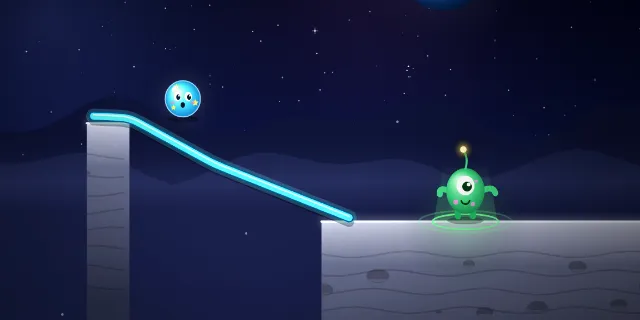
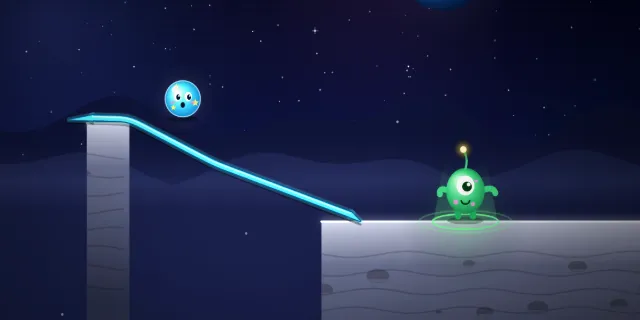
첫 화면 슥슥 우주 다리 카드 그림을 새 선(10px·끝 비탈)으로 다시 찍음

Changed region(s): [[0.0938, 0.3438, 0.5625, 0.7188]]

diff --git a/HANDOFF.md b/HANDOFF.md
@@ -7,7 +7,7 @@
 
 - **냠냠 뱀 네온 뱀 꾸미기 (2026-09-29, main에 합침, 소유자: "플레이어 뱀은 너무 단순", 카드 그림과 게임 뱀이 다르다는 확인 뒤 1안·길이 숫자 나안)**: 처음 받는 네온 뱀을 꾸밈. 관 위에 마디마다 광택 구슬(`render.js` `paintNeonBeads`, 색 12단계 미리 그림 `neonBeadSprite`), 머리는 광택 청록에 눈·웃는 입·노란 코, 길이 숫자는 머리 안에서 머리 바로 뒤 첫 마디로(`paintHead`의 `neck`, 포털로 떨어진 마디면 안 씀). 부딪히면 구슬 없이 붉은 관·붉은 머리. 다른 네 캐릭터와 라이벌은 그대로. 첫 화면 카드 그림은 예전에 상점 캐릭터 무지개 애벌레(800코인)로 찍어 처음 게임 뱀과 달랐다: `tools/thumbs.js` 뱀 장면을 네온 뱀으로 바꿔 `common/thumbs/snake-*.webp` 다시 찍음. 이 PC에는 Playwright가 없어 설치된 크롬을 CDP로 부리는 임시 대체 모듈로 돌렸고(저장소에 넣지 않음), 수정 전 코드로 다시 찍은 그림이 원래 그림과 눈으로 같은 것을 먼저 확인함. `snake-v22`. 화면 확인: 1280×800·893×533 판(오른쪽·위로 가는 얼굴), 보통 난이도 부딪힘, 시작 화면 캐릭터 카드, 390px 시작 화면, 콘솔 오류 0. 보조 에이전트 검토에서 정확성 문제 없음(뱀 시험 86·뱀 상점 22 다시 돌려 통과)
 - **저장소 이름 ppgame (2026-09-29, main에 합침, 소유자: "ppyong, 1안으로 진행해" 뒤 "이름을 ppgame 으로 바꾸자")**: 첫 게임 초안 때 붙은 n-gun을 게임 모음 이름 ppgame으로. 새 주소 `https://km-jang.github.io/ppgame/`. 코드는 모두 상대 경로라 고친 곳 없음, 문서(`CLAUDE.md`·`HANDOFF.md`·`README.md`·`android/README.md`)만 바꿈. 기록(localStorage)은 km-jang.github.io 단위라 그대로 이어지고, 홈 화면 설치와 오프라인 저장본만 새 주소에서 다시 한다. 옛 주소는 쓰지 않는다: 처음엔 넘겨 주기 전용 저장소(1안)로 정했으나 태블릿에 옛 주소로 설치한 적이 없어 소유자가 "n-gun 없이 가자"로 바꿈. 소유자가 만들어 둔 빈 공개 저장소 km-jang/n-gun은 비어 있고, 지울지는 소유자가 정한다. 옛 이름 저장소를 만든 때부터 GitHub의 옛 저장소 화면 넘겨 주기(github.com/km-jang/n-gun 에서 ppgame으로)는 끊겼다. 저장 키(`ngun.*` 등)·폴더(`game/`·`snake/`)·저장본 이름(`ngun-` 등)·앱 내부 이름 `io.github.kmjang.ngun`은 그대로
-- **슥슥 우주 다리 선 가늘게·끝 비탈 (2026-09-29, main에 합침, 소유자: "너무 굵어서 걸려 이 문제를 해결해봐" 뒤 1안)**: 선 굵기 14px에서 10px(`PHYS.lineHalf` 5), 선 양 끝에 세모 비탈(`world.js` `rampAt`, 아래 면은 그대로·위 면만 `rampLen` 44px에 걸쳐 두께 0, 막히면 22px·그래도 막히면 없음, 끝이 가파르면(`rampFlat` 가로 성분 0.5 미만) 없음, 잉크 안 듦). 평지에서 땅에 누운 선을 넘는 공의 속도 유지(선 앞 356 대비 선 위 최저): 14px 비탈 없음 47.8%, 10px 비탈 없음 58.7%, 10px 비탈 있음 92.7%. 판 20개 정답 선 20/20, 흔들린 선 231/240(수정 전과 같음). 화면: 굳은 선 빛 번짐 선 굵기+10px(예전 +14), 그리는 중 분필 26·16·9·3.5px(예전 34·22·12·4.5), 비탈도 같은 층 색으로 그림(`rampPoints`). 시험 2개(`lipKeep` 비탈 있음 85% 초과·없음 70% 미만, 구슬·가파른 끝에 비탈 없음·땅 속 안 들어감). 보조 에이전트 검토에서 정확성 문제 없음. 첫 화면 카드 그림(`common/thumbs/bridge-*.webp`)은 예전 굵은 선 그대로(`node tools/thumbs.js bridge`는 Playwright가 있어야 함). `bridge-v2`
+- **슥슥 우주 다리 선 가늘게·끝 비탈 (2026-09-29, main에 합침, 소유자: "너무 굵어서 걸려 이 문제를 해결해봐" 뒤 1안)**: 선 굵기 14px에서 10px(`PHYS.lineHalf` 5), 선 양 끝에 세모 비탈(`world.js` `rampAt`, 아래 면은 그대로·위 면만 `rampLen` 44px에 걸쳐 두께 0, 막히면 22px·그래도 막히면 없음, 끝이 가파르면(`rampFlat` 가로 성분 0.5 미만) 없음, 잉크 안 듦). 평지에서 땅에 누운 선을 넘는 공의 속도 유지(선 앞 356 대비 선 위 최저): 14px 비탈 없음 47.8%, 10px 비탈 없음 58.7%, 10px 비탈 있음 92.7%. 판 20개 정답 선 20/20, 흔들린 선 231/240(수정 전과 같음). 화면: 굳은 선 빛 번짐 선 굵기+10px(예전 +14), 그리는 중 분필 26·16·9·3.5px(예전 34·22·12·4.5), 비탈도 같은 층 색으로 그림(`rampPoints`). 시험 2개(`lipKeep` 비탈 있음 85% 초과·없음 70% 미만, 구슬·가파른 끝에 비탈 없음·땅 속 안 들어감). 보조 에이전트 검토에서 정확성 문제 없음. 첫 화면 카드 그림(`common/thumbs/bridge-*.webp`)도 2026-09-29 새 선으로 다시 찍음(Playwright 대신 설치된 크롬을 CDP로 부리는 임시 대체 모듈, 자를 칸이 화면 아래로 10px 넘는 것은 Playwright처럼 화면 안으로 잘라 예전 구도 그대로). `bridge-v2`
 - **슥슥 우주 다리 1단계 (2026-09-29, 브랜치, 소유자: "1단계 진행해 이름은 그대로 플랑크로")**: 다섯 번째 게임 `bridge/`(이름공간 `BR`). 손가락으로 그린 선이 그 모양 그대로 물건이 되어 떨어지고 구르고, 그 선으로 공(데굴이)을 외계인 친구에게 데려다준다. 물리는 Planck.js 1.5.0(MIT, `bridge/lib/`, 고지 `lib/LICENSE.md`), 1/60초 고정 간격. 달 10판·화성 10판(화성은 달 5판 깨면), 시소·스프링·상자·얼음·바위. 잉크를 아끼면 별(정답 선의 1.45배 이하 3개, 2.2배 이하 2개), 떨어지면 저절로 처음부터(지는 화면 없음), 공이 두 번 떨어지면 힌트 전구가 반짝, 처음 판(달 1·달 8·화성 2)에 점선 + 손가락 안내. 캐릭터 3(데굴이·해님이 250·딸기 젤리 400)·펜 4(파란·분홍 150·황금 250·무지개 500), 모양만 다름. 미션 10·메달 14, 저장 `bridge.shop1`·`bridge.rec1`. 놀이 본부: 게임 목록·오늘의 미션 4가지·스티커 5장(34장)·기록실(별 수). 첫 화면 카드 다섯(위 3장·아래 2장, 카드 그림 `common/thumbs/bridge-*.webp`). 판마다 테스트가 정답 선으로 풀리는지·흔들린 선 12개 중 8개 이상·선 없이는 안 풀리는지 확인. 판 짜는 요령은 `bridge/PLAN.md` 5절. `bridge-v1`, 공통 파일(`hub.js`·`sound.js`)이 바뀌어 `ngun-v21`·`snake-v21`·`jump-v17`·`runner-v14`. 실기기에서 선 굵기·손가락 느낌·잉크 양, 5살이 첫 판을 혼자 깨는지 볼 것
 - **통통 점프 따라다니는 꼬마 펫 (2026-09-29, 브랜치, 소유자 승인)**: 펫 다섯이 주인공 뒤쪽 위에서 조금 늦게 따라다니며 가까운 별(화면 안, 펫마다 reach 78 ~ 92점)을 날아가 주워 오고 돌아온다. 꼬마 별(공짜, 처음부터 데리고 다님, 별 줍기 가장 넓게) · 로봇 강아지 250(선물 상자도 물어 옴) · 반짝 반딧불 350(이번 점프로 내려앉을 수 있는 가장 높은 발판을 연두 테두리·화살표로 비춤, 그림 전용) · 아기 해파리 500(30초마다 1.2배 폴짝, 위에 폭탄·몬스터면 기다림) · 꼬마 UFO 700(45초마다 가까운 몬스터 톡). 밟기·아슬아슬·신기록·새 장소에서 하트 응원 + 작은 소리(별보다 약 6dB 작게). 규칙은 `world.js`(난수 없음, 1/120초), 펫이 없으면 예전 판과 한 칸도 다르지 않음(테스트가 펫 넣기 전 값과 비교). 그림은 미리 그린 몸통 + 작은 움직이는 부분, 움직임 줄이기면 둥실거림 줄이고 반짝이 꼬리 없음. 상점 "펫" 칸(펫 없음 포함), 시작 화면 내 캐릭터 칸에 펫 작게, 저장 `jump.shop1`의 `pet`·`pets`(예전 저장본은 꼬마 별로 시작). 미션 "펫이 별 30개 주워 오기(누적)"·"한 판에 펫이 별 8개", 메달 "단짝 친구"(모두 합쳐 100개), `HUB.reportRun`에 `petStars`. 아이 흉내 봇 1분 코인 펫 없음 대비 +3 ~ 8%(시드 40). `jump-v16`. 자세히 `jump/PLAN.md` 24절. 실기기(탭 S9·A7 Lite)에서 펫 크기·반딧불 테두리가 잘 보이는지 한 번 볼 것
 - **첫 화면 카드 그림 (2026-09-28, 브랜치)**: 소유자 "홈화면에서 게임 썸네일이나 이미지가 있으면 좋을 것 같아". 네 카드 배경에 그 게임 장면(뿅뿅 우주선: 토성 앞 대포 9개 · 냠냠 뱀: 목성 앞 무지개 애벌레와 라이벌 · 통통 점프: 저녁 하늘의 로봇 공과 연·별 · 슝슝 달리기: 해 뜨는 지평선과 달, 점프하는 우주선). `common/thumbs/<게임>-640.webp`·`-960.webp`(2:1, 합쳐 약 100KB, `srcset`). 만드는 법: `node tools/thumbs.js` (Playwright로 게임을 자동 운전, 글자·단추 숨기고, 좋은 순간을 기다렸다 세상을 멈추고 찍어 브라우저 캔버스로 WebP). 자동 운전이라 매번 장면이 조금 다르니 찍은 뒤 눈으로 볼 것. 카드는 그림을 다 읽으면 `a.pic`(아래쪽 어두운 그러데이션, 움직임 줄이기가 아니면 마우스를 올리거나 키보드로 고를 때(:hover·:focus-visible) 1.06배 천천히 확대), 못 읽으면 그림을 빼고 예전 카드 그대로. 미리보기 묶음(`build.py`)은 640px만 data: 주소로 넣는다. `flow.test.js` 카드 그림 검사 2개(1280×800·893×533). 실기기(탭 S9·A7 Lite)에서 그림 선명도와 글자 읽힘을 한 번 볼 것
